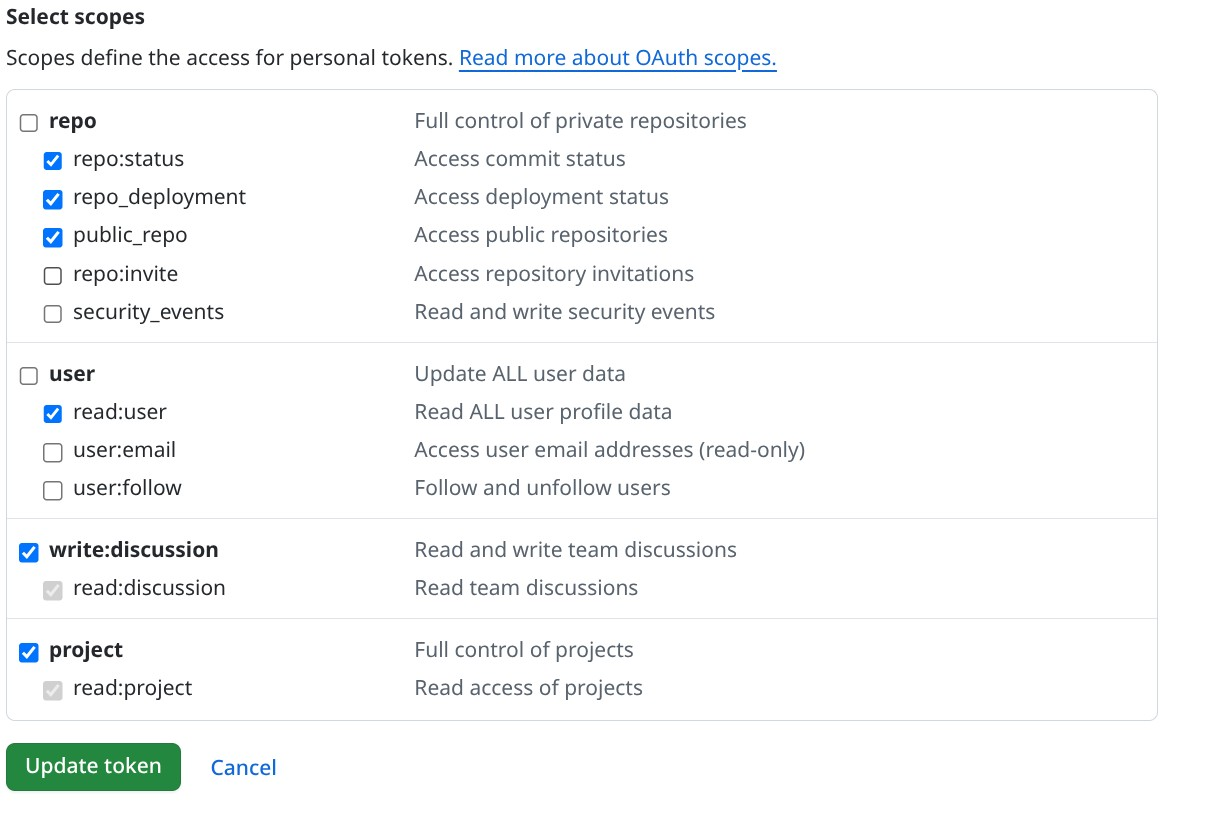
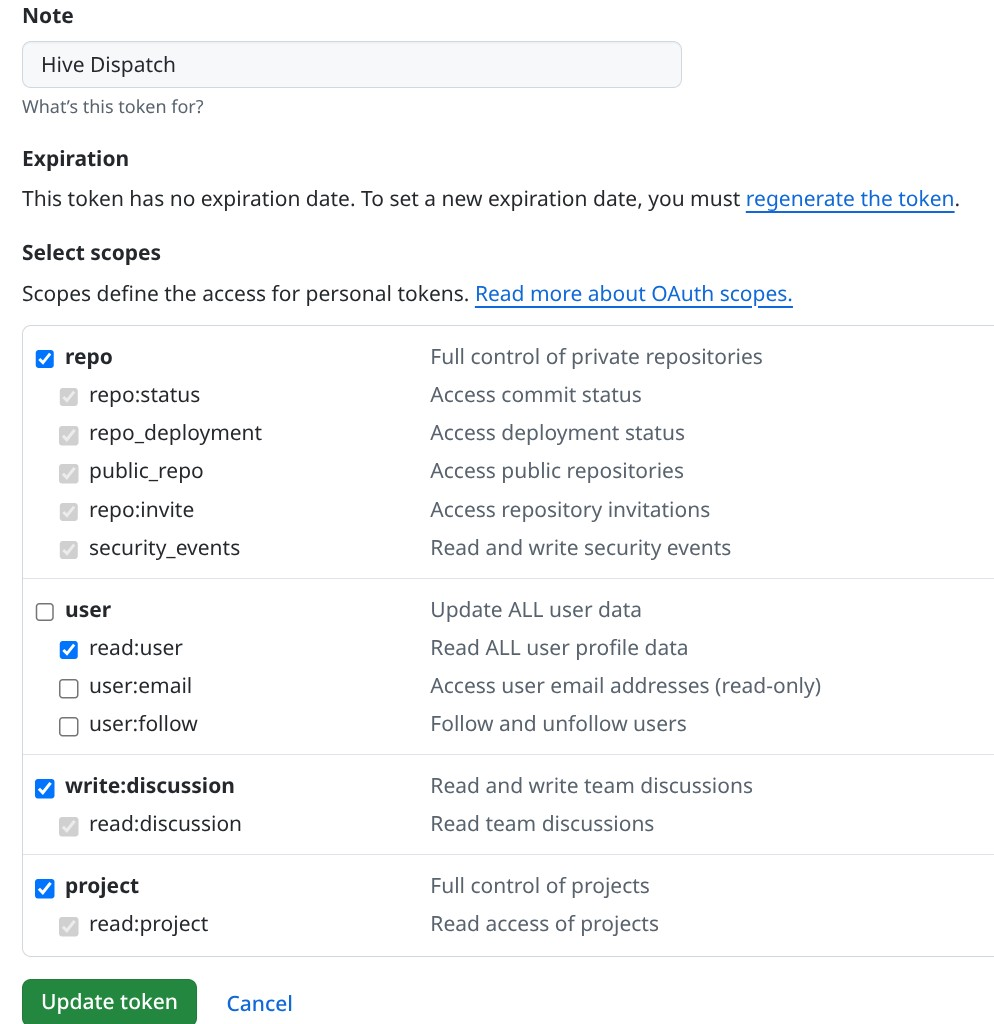
docs: classic token screenshot with the full repo scope

diff --git a/docs/setup.md b/docs/setup.md
@@ -168,9 +168,9 @@ To create a fine-grained token: https://github.com/settings/personal-access-toke
 
 ![Fine-grained token repository permissions: Issues and Pull requests set to Read and write](setting-images/github_fine_gain_token_without_projects.jpg)
 
-For a classic token: https://github.com/settings/tokens → *Generate new token (classic)* and tick the scopes. For a board under your personal account, tick `project` alongside the repository scope — `public_repo` as here if every repository is public, otherwise the whole `repo` box:
+For a classic token: https://github.com/settings/tokens → *Generate new token (classic)* and tick the scopes. For a board under your personal account, tick `repo` and `project` (`public_repo` instead of `repo` is enough if every repository is public):
 
-![Classic token scopes with public_repo and project ticked](setting-images/github_classic_token_with_projects.jpg)
+![Classic token scopes with repo and project ticked](setting-images/github_classic_token_with_projects.jpg)
 
 Then:
 
